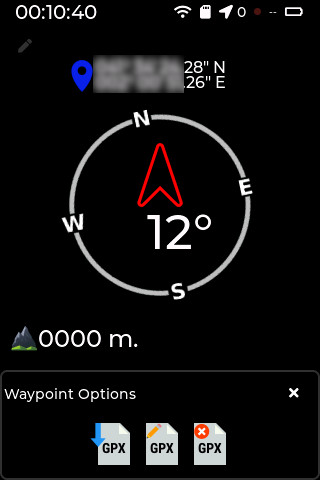
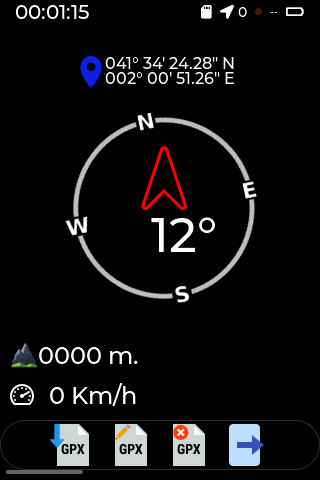
feat(lvgl): Change Waypoint option toolbar

diff --git a/lib/gui/src/buttonBar.cpp b/lib/gui/src/buttonBar.cpp
@@ -59,7 +59,7 @@ void buttonBarEvent(lv_event_t *event)
   if (strcmp(option,"waypoint") == 0)
   {
     log_v("Waypoint");
-    isMainScreen = false;
+  //  isMainScreen = false;
     isWaypointOpt = true;
     isTrackOpt = false;
     if (!isOptionLoaded)
@@ -101,7 +101,7 @@ void optionEvent(lv_event_t *event)
     log_v("Load Option");
     wptAction = WPT_LOAD;
     isMainScreen = false;
-    lv_msgbox_close(option);
+    lv_obj_del(option);
     updateWaypointListScreen();
     lv_screen_load(listWaypointScreen);
   }
@@ -110,7 +110,7 @@ void optionEvent(lv_event_t *event)
     log_v("Edit Option");
     wptAction = WPT_EDIT;
     isMainScreen = false;
-    lv_msgbox_close(option);
+    lv_obj_del(option);
     updateWaypointListScreen();
     lv_screen_load(listWaypointScreen);
   }
@@ -119,25 +119,22 @@ void optionEvent(lv_event_t *event)
     log_v("Delete Option");
     wptAction = WPT_DEL;
     isMainScreen = false;
-    lv_msgbox_close(option);
+    lv_obj_del(option);
     updateWaypointListScreen();
     lv_screen_load(listWaypointScreen);   
   }
-}
-
-/**
- * @brief Close Options event
- *
- * @param event
- */
- void closeOption(lv_event_t *event)
- {
+  if (strcmp(action,"exit") == 0)
+  {
     isMainScreen = true;
-    isOptionLoaded = false;
-    isWaypointOpt = false;
-    isTrackOpt = false;
-    redrawMap = true;
- }
+    lv_obj_del(option);
+  }
+
+
+  isOptionLoaded = false;
+  isWaypointOpt = false;
+  isTrackOpt = false;
+  redrawMap = true;
+}
 
 /**
  * @brief Hide/Show Animation
@@ -283,29 +280,26 @@ void createButtonBarScr()
  */
 void loadOptions()
 {
-  option = lv_msgbox_create(lv_scr_act());
-  lv_obj_t *buttons = lv_obj_create(option);
-  lv_obj_remove_style_all(buttons);
-  lv_obj_set_flex_flow(buttons, LV_FLEX_FLOW_ROW);
-  lv_obj_set_flex_align(buttons, LV_FLEX_ALIGN_CENTER, LV_FLEX_ALIGN_CENTER, LV_FLEX_ALIGN_CENTER);
-  #ifdef TDECK_ESP32S3
-    lv_obj_set_style_text_font(option, fontSmall, 0);
-  #endif
-  lv_obj_set_size(buttons, TFT_WIDTH, 50 * scaleBut);
-  lv_obj_align_to(buttons, option,  LV_ALIGN_BOTTOM_LEFT, 0, -40);
+  option = lv_obj_create(lv_scr_act());
+  lv_obj_remove_style_all(option);
 
-  if (isWaypointOpt)
-    lv_msgbox_add_title(option,"Waypoint Options");
-  else if (isTrackOpt)
-  {
-    //lv_msgbox_add_title(option,"Track Options");
-  }
-  lv_msgbox_add_close_button(option);
-  
-  lv_obj_set_size(option, TFT_WIDTH, 110 * scaleBut);
-  lv_obj_align(option, LV_ALIGN_BOTTOM_LEFT, 0, 0);
+  lv_obj_set_style_radius(option, LV_RADIUS_CIRCLE, 0);
+  lv_obj_set_style_border_color(option, lv_color_white(), 0);
+  lv_obj_set_style_border_width(option, 1, 0);
+  lv_obj_set_style_border_opa(option,LV_OPA_20,0);
+  lv_obj_set_style_bg_color(option, lv_color_black(), 0);
+  lv_obj_set_style_bg_opa(option, 255, 0);
+  lv_obj_set_flex_flow(option, LV_FLEX_FLOW_ROW);
+  lv_obj_set_flex_align(option, LV_FLEX_ALIGN_CENTER, LV_FLEX_ALIGN_CENTER, LV_FLEX_ALIGN_CENTER);
+  lv_obj_set_size(option, TFT_WIDTH, 50 * scaleBut);
   lv_obj_clear_flag(option, LV_OBJ_FLAG_SCROLLABLE);
-  lv_obj_add_event_cb(option, closeOption, LV_EVENT_DELETE, NULL);
+  lv_obj_align(option, LV_ALIGN_BOTTOM_LEFT, 0, -10);
+
+  static lv_style_t style;
+  lv_style_init(&style);
+  lv_style_set_pad_column(&style, 10);
+  lv_obj_add_style(option, &style, 0);
+
   
   lv_obj_t *imgBtn;
   
@@ -319,29 +313,39 @@ void loadOptions()
   // }
   
   // Load Button
-  imgBtn = lv_img_create(buttons);
+  imgBtn = lv_img_create(option);
   lv_img_set_src(imgBtn, loadIconFile);
   lv_img_set_zoom(imgBtn,buttonScale);
   lv_obj_update_layout(imgBtn);
   lv_obj_set_style_size(imgBtn,48 * scaleBut, 48 * scaleBut, 0);
   lv_obj_add_flag(imgBtn, LV_OBJ_FLAG_CLICKABLE);
+  lv_obj_align(imgBtn,LV_ALIGN_BOTTOM_LEFT, 0, -40);
   lv_obj_add_event_cb(imgBtn, optionEvent, LV_EVENT_PRESSED, (char*)"load");
 
   // Edit Button
-  imgBtn = lv_img_create(buttons);
+  imgBtn = lv_img_create(option);
   lv_img_set_src(imgBtn, editIconFile);
   lv_img_set_zoom(imgBtn,buttonScale);
   lv_obj_update_layout(imgBtn);
   lv_obj_set_style_size(imgBtn,48 * scaleBut, 48 * scaleBut, 0);
   lv_obj_add_flag(imgBtn, LV_OBJ_FLAG_CLICKABLE);
   lv_obj_add_event_cb(imgBtn, optionEvent, LV_EVENT_PRESSED, (char*)"edit");
-  
+
   // Delete Button
-  imgBtn = lv_img_create(buttons);
+  imgBtn = lv_img_create(option);
   lv_img_set_src(imgBtn, deleteIconFile);
   lv_img_set_zoom(imgBtn,buttonScale);
   lv_obj_update_layout(imgBtn);
   lv_obj_set_style_size(imgBtn,48 * scaleBut, 48 * scaleBut, 0);
   lv_obj_add_flag(imgBtn, LV_OBJ_FLAG_CLICKABLE);
   lv_obj_add_event_cb(imgBtn, optionEvent, LV_EVENT_PRESSED, (char*)"delete");
+
+  // Exit Button
+  imgBtn = lv_img_create(option);
+  lv_img_set_src(imgBtn, exitIconFile);
+  lv_img_set_zoom(imgBtn,buttonScale);
+  lv_obj_update_layout(imgBtn);
+  lv_obj_set_style_size(imgBtn,48 * scaleBut, 48 * scaleBut, 0);
+  lv_obj_add_flag(imgBtn, LV_OBJ_FLAG_CLICKABLE);
+  lv_obj_add_event_cb(imgBtn, optionEvent, LV_EVENT_PRESSED, (char*)"exit");
 }

diff --git a/lib/gui/src/mainScr.cpp b/lib/gui/src/mainScr.cpp
@@ -521,27 +521,7 @@ void createMainScr()
   lv_obj_add_event_cb(tilesScreen, scrollTile, LV_EVENT_SCROLL_BEGIN, NULL);
   
   // Compass Tile
-  
-  // // Pin drag widget
-  // static lv_style_t editBtnStyleOff;
-  // lv_style_init(&editBtnStyleOff);
-  // lv_style_set_bg_color(&editBtnStyleOff, lv_color_black());
-  // lv_style_set_text_color(&editBtnStyleOff, lv_color_hex(0x303030));
-  // static lv_style_t editBtnStyleOn;
-  // lv_style_init(&editBtnStyleOn);
-  // lv_style_set_bg_color(&editBtnStyleOn, lv_color_black());
-  // lv_style_set_text_color(&editBtnStyleOn, lv_color_white());
-  // lv_obj_t *editScreenBtn = lv_button_create(compassTile);
-  // lv_obj_add_style(editScreenBtn, &editBtnStyleOff, LV_PART_MAIN | LV_STATE_DEFAULT);
-  // lv_obj_add_style(editScreenBtn, &editBtnStyleOn, LV_PART_MAIN | LV_STATE_CHECKED);
-  // lv_obj_set_pos(editScreenBtn, 5, 5);
-  // lv_obj_add_flag(editScreenBtn, LV_OBJ_FLAG_CHECKABLE);
-  // lv_obj_t *editScreenLbl;
-  // editScreenLbl = lv_label_create(editScreenBtn);
-  // lv_label_set_text(editScreenLbl, LV_SYMBOL_EDIT);
-  // lv_obj_center(editScreenLbl);
-  // lv_obj_add_event_cb(editScreenBtn, editWidget, LV_EVENT_ALL, NULL);
-  
+   
   // Compass Widget
   compassWidget(compassTile);
   // Position widget

diff --git a/lib/gui/src/buttonBar.hpp b/lib/gui/src/buttonBar.hpp
@@ -19,8 +19,9 @@ static const char *saveIconFile PROGMEM = "/save.bin";         // Save icon
 static const char *loadIconFile PROGMEM = "/load.bin";         // Load icon
 static const char *editIconFile PROGMEM = "/edit.bin";         // Edit icon
 static const char *deleteIconFile PROGMEM = "/delete.bin";     // Delete icon
-static const char *menuIconFile PROGMEM = "/menu.bin";          // Menu icon
-static const char *addWptIconFile PROGMEM = "/addwpt.bin";         // Add Waypoint icon
+static const char *menuIconFile PROGMEM = "/menu.bin";         // Menu icon
+static const char *addWptIconFile PROGMEM = "/addwpt.bin";     // Add Waypoint icon
+static const char *exitIconFile PROGMEM = "/exit.bin";         // Exit icon 
 
 static lv_obj_t *option;
 
@@ -31,7 +32,6 @@ extern bool isBarOpen;      // Flag to determine if Button Bar is open
 
 void buttonBarEvent(lv_event_t *event);
 void optionEvent(lv_event_t *event);
-void closeOption(lv_event_t *event);
 void hideShowEvent(lv_event_t * e);
 void hideShowAnim(void * var, int32_t v);
 void createButtonBarScr();
